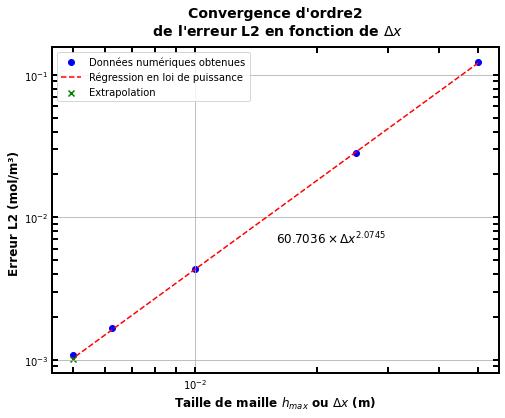
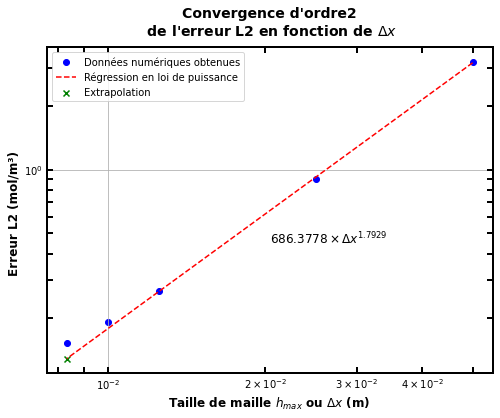
MMS
Modifications finales MMS ?

diff --git a/devoir2/src/MMS.py b/devoir2/src/MMS.py
@@ -22,27 +22,210 @@ import matplotlib.pyplot as plt
 
 # Numerical parameters
 
+
+#Etude de la convergence en espace 
+
 Order = 2
 
 print('runing solver...')
 print(' order=', Order)
 print('')
 
-n=20
-tMax = 0.1
+h=[]
+El2=[]
+n_cases = [10,20,40,50,60]
+for n in n_cases:
+    tMax = 1e15#0.1
+    dt = tMax/200
+    Order = 2
+    dx=0.5/n
+    h.append(dx)
+    r,c_num = mycode.solve(n, dt, Order, tMax, MMS = True, debug=False)
+    c_man = mycode.manufactured_solution(r, tMax)
+    error_l2 = np.sqrt(np.sum((c_num - c_man)**2)/len(c_num))
+    El2.append(error_l2)
+    print("n :",n)
+    print("L2", error_l2)
+    plt.figure(figsize=(10, 6))
+    plt.plot(r, c_num, label='Solution Numérique', marker='o')
+    plt.plot(r, c_man, label='Solution Manufacturée', linestyle='--')
+    plt.xlabel('Position (r)')
+    plt.ylabel('Concentration (C)')
+    plt.title('Comparaison entre la solution numérique et manufacturée')
+    plt.legend()
+    plt.show()
 
-dt = tMax/2000
 
+def plot_convergence(error_values, h_values_ext, Order, error_name = 'L2') :
+    """
+    Plots the convergence of the error with respect to the grid size.
 
+    Args:
+        error_values (list): List of error values.
+        h_values_ext (list): List of grid sizes.
+        order (int): The order of the convergence (1 or 2).
+        error_name (string): name of the error (L1, L2, Linf)
 
+    Returns:
+        None
+    """
 
+    coefficients = np.polyfit(np.log(h_values_ext[:3]), np.log(error_values[:3]), 1)
+    exponent = coefficients[0]
+
+    #fit_function_log = lambda x: exponent * x + coefficients[1]
+
+    #fit_function = lambda x: np.exp(fit_function_log(np.log(x)))
+
+    def fit_function_log(x):
+        return exponent * x + coefficients[1]
+
+    def fit_function(x):
+        return np.exp(fit_function_log(np.log(x)))
+
+    extrapolated_value = fit_function(h_values_ext[-1])
+
+    plt.figure(figsize=(8, 6))
+    plt.scatter(h_values_ext, error_values, marker='o',
+                color='b', label='Données numériques obtenues')
+    plt.plot(h_values_ext, fit_function(h_values_ext), linestyle='--',
+              color='r', label='Régression en loi de puissance')
+
+    plt.scatter(h_values_ext[-1], extrapolated_value, marker='x', color='g', label='Extrapolation')
+
+    plt.title('Convergence d\'ordre' + Order +
+              '\n de l\'erreur '+error_name+' en fonction de $Δx$',
+          fontsize=14, fontweight='bold', y=1.02)
+    # Le paramètre y règle la position verticale du titre
+
+    plt.xlabel('Taille de maille $h_{max}$ ou $Δx$ (m)',
+                fontsize=12, fontweight='bold')  # Remplacer "h" par "Δx"
+    plt.ylabel('Erreur '+error_name+' (mol/m³) ', fontsize=12, fontweight='bold')
+
+    plt.gca().spines['bottom'].set_linewidth(2)
+    plt.gca().spines['left'].set_linewidth(2)
+    plt.gca().spines['right'].set_linewidth(2)
+    plt.gca().spines['top'].set_linewidth(2)
+    plt.tick_params(width=2, which='both', direction='in', top=True, right=True, length=6)
+
+    #equation_text = f'$L_2 = {np.exp(coefficients[1]):.4f} \\times Δx^{{{exponent:.4f}}}$'
+    equation_text = f'$ {np.exp(coefficients[1]):.4f} \\times Δx^{{{exponent:.4f}}}$'
+    equation_text_obj = plt.text(0.05, 0.05, equation_text, fontsize=12,
+                                  transform=plt.gca().transAxes, color='k')
+
+    equation_text_obj.set_position((0.5, 0.4))
+
+    plt.xscale('log')
+    plt.yscale('log')
+    plt.grid(True)
+    plt.legend()
+    plt.show()
+
+plot_convergence(El2, h, "2", error_name='L2')
+
+n=100
 
 print('time t=', tMax)
-r,c = mycode.solve(n, dt, Order, tMax, MMS = True, debug=False)
-c_an = mycode.manufactured_solution(r, tMax)
-plt.plot(r, c, label='numeric')
-plt.plot(r, c_an, label='analytical')
+r,c_num = mycode.solve(n, dt, Order, tMax, MMS = True, debug=False)
+c_man = mycode.manufactured_solution(r, tMax)
+error_l2 = np.sqrt(np.sum((c_num - c_man)**2)/len(c_num))
+print("error_L2 :", error_l2)
+plt.plot(r, c_num, label='numeric')
+plt.plot(r, c_man, label='analytical')
 plt.legend()
 plt.show()
 
+
+
+#Etude de la connvergence en temps  
+
+
+
+def plot_convergence_t(error_values, delta_t, Order, error_name = 'L2') :
+    """
+    Plots the convergence of the error with respect to the grid size.
+
+    Args:
+        error_values (list): List of error values.
+        h_values_ext (list): List of grid sizes.
+        order (int): The order of the convergence (1 or 2).
+        error_name (string): name of the error (L1, L2, Linf)
+
+    Returns:
+        None
+    """
+
+    coefficients = np.polyfit(np.log(delta_t[:3]), np.log(error_values[:3]), 1)
+    exponent = coefficients[0]
+
+
+    def fit_function_log(x):
+        return exponent * x + coefficients[1]
+
+    def fit_function(x):
+        return np.exp(fit_function_log(np.log(x)))
+
+    extrapolated_value = fit_function(delta_t[-1])
+
+    plt.figure(figsize=(8, 6))
+    plt.scatter(delta_t, error_values, marker='o',
+                color='b', label='Données numériques obtenues')
+    plt.plot(delta_t, fit_function(delta_t), linestyle='--',
+              color='r', label='Régression en loi de puissance')
+
+    plt.scatter(delta_t[-1], extrapolated_value, marker='x', color='g', label='Extrapolation')
+
+    plt.title('Convergence d\'ordre' + Order +
+              '\n de l\'erreur '+error_name+' en fonction de $Δt$',
+          fontsize=14, fontweight='bold', y=1.02)
+    # Le paramètre y règle la position verticale du titre
+
+    plt.xlabel('Taille de maille $h_{max}$ ou $Δx$ (m)',
+                fontsize=12, fontweight='bold')  # Remplacer "h" par "Δx"
+    plt.ylabel('Erreur '+error_name+' (mol/m³) ', fontsize=12, fontweight='bold')
+
+    plt.gca().spines['bottom'].set_linewidth(2)
+    plt.gca().spines['left'].set_linewidth(2)
+    plt.gca().spines['right'].set_linewidth(2)
+    plt.gca().spines['top'].set_linewidth(2)
+    plt.tick_params(width=2, which='both', direction='in', top=True, right=True, length=6)
+
+    #equation_text = f'$L_2 = {np.exp(coefficients[1]):.4f} \\times Δx^{{{exponent:.4f}}}$'
+    equation_text = f'$ {np.exp(coefficients[1]):.1e} \\times \\Delta x^{{{exponent:.4f}}}$'
+    equation_text_obj = plt.text(0.05, 0.05, equation_text, fontsize=12,
+                                 transform=plt.gca().transAxes, color='k')
+
+    equation_text_obj.set_position((0.5, 0.4))
+
+    plt.xscale('log')
+    plt.yscale('log')
+    plt.grid(True)
+    plt.legend()
+    plt.show()
+    
+El2=[]
+time_l = [50,75,85,100,200]   #nombre d'itérations
+time = []
+for t in time_l:
+    n=100
+    tMax = 1e15 #0.1
+    dt = tMax/t
+    Order = 2
+    time.append(dt)
+    r,c_num = mycode.solve(n, dt, Order, tMax, MMS = True, debug=False)
+    c_man = mycode.manufactured_solution(r, tMax)
+    error_l2 = np.sqrt(np.sum((c_num - c_man)**2)/len(c_num))
+    El2.append(error_l2)
+    print("n :",n)
+    print("L2", error_l2)
+    plt.figure(figsize=(10, 6))
+    plt.plot(r, c_num, label='Solution Numérique', marker='o')
+    plt.plot(r, c_man, label='Solution Manufacturée', linestyle='--')
+    plt.xlabel('Position (r)')
+    plt.ylabel('Concentration (C)')
+    plt.title('Comparaison entre la solution numérique et manufacturée')
+    plt.legend()
+    plt.show()
+
+plot_convergence_t(El2,time,"2", error_name='L2')
 

diff --git a/devoir2/src/solve_FICK_sourceTerm.py b/devoir2/src/solve_FICK_sourceTerm.py
@@ -10,20 +10,46 @@ import numpy as np
 from numpy import linalg as LA
 import matplotlib.pyplot as plt
 
+# def manufactured_solution(r, t):
+#     Cs = 12.0
+#     R = 0.5
+#     return (Cs*np.sin(np.pi*r**2/(2*R**2)) + r**2*(-R + r)/(t + 1))
+
+# def source_term(r, t):
+#     Cs = 12.0
+#     R = 0.5
+#     De = 10e-10
+#     k = 4e-9
+#     r = np.maximum(r, 1e-25)
+#     t = np.maximum(t, 1e-25)
+#     kc = k*(Cs*np.sin(np.pi*r**2/(2*R**2)) + r**2*(-R + r)/(t + 1))
+#     expression = -De*(np.pi*Cs*np.cos(np.pi*r**2/(2*R**2))/R**2 - np.pi**2*Cs*r**2*np.sin(np.pi*r**2/(2*R**2))/R**4 + 4*r/(t + 1) - 2*(R - r)/(t + 1)) - De*(np.pi*Cs*r*np.cos(np.pi*r**2/(2*R**2))/R**2 + r**2/(t + 1) + 2*r*(-R + r)/(t + 1))/r - r**2*(-R + r)/(t + 1)**2
+#     return (expression + kc)
+
 def manufactured_solution(r, t):
     Cs = 12.0
     R = 0.5
-    return (Cs*np.sin(np.pi*r**2/(2*R**2)) + r**2*(-R + r)/(t + 1))
-
+    return (Cs*np.sin(np.pi*r**2/(2*R**2)) - r**2*t**0.25*(-R + r))
 def source_term(r, t):
     Cs = 12.0
     R = 0.5
     De = 10e-10
     k = 4e-9
-    kc = k*(Cs*np.sin(np.pi*r**2/(2*R**2)) + r**2*(-R + r)/(t + 1))
-    expression = -De*(np.pi*Cs*np.cos(np.pi*r**2/(2*R**2))/R**2 - np.pi**2*Cs*r**2*np.sin(np.pi*r**2/(2*R**2))/R**4 + 4*r/(t + 1) - 2*(R - r)/(t + 1)) - De*(np.pi*Cs*r*np.cos(np.pi*r/(2*R**2))/R**2 + r/(t + 1) + 2*(-R + r)/(t + 1)) - r**2*(-R + r)/(t + 1)**2
-    return (expression + kc)
+    r = np.maximum(r, 1e-25)
+    t = np.maximum(t, 1e-25)
+    kc = k*(Cs*np.sin(np.pi*r**2/(2*R**2)) - r**2*t**0.25*(-R + r))
+    expression = -De*(np.pi*Cs*np.cos(np.pi*r**2/(2*R**2))/R**2 - np.pi**2*Cs*r**2*np.sin(np.pi*r**2/(2*R**2))/R**4 - 4*r*t**0.25 + 2*t**0.25*(R - r)) - De*(np.pi*Cs*r*np.cos(np.pi*r**2/(2*R**2))/R**2 - r**2*t**0.25 - 2*r*t**0.25*(-R + r))/r - 0.25*r**2*(-R + r)/t**0.75
+    return expression +kc 
 
+# def source_term(r, t):
+#     Cs = 12.0
+#     R = 0.5
+#     De = 10e-10
+#     k = 4e-9
+#     # r = np.maximum(r, 1e-25)
+#     # t = np.maximum(t, 1e-25)
+#     kc = k*(Cs*np.sin(np.pi*r**2/(2*R**2)) + r**2*t**0.25*(-R + r))
+#     return -De*(np.pi*Cs*np.cos(np.pi*r**2/(2*R**2))/R**2 - np.pi**2*Cs*r**2*np.sin(np.pi*r**2/(2*R**2))/R**4 + 4*r*t**0.25 - 2*t**0.25*(R - r)) - De*(np.pi*Cs*r*np.cos(np.pi*r**2/(2*R**2))/R**2 + r**2*t**0.25 + 2*r*t**0.25*(-R + r))/r + 0.25*r**2*(-R + r)/t**0.75 + kc
 
 def solve(n, dt, order, tmax,  MMS = True, debug=False):
     '''
@@ -112,14 +138,15 @@ def solve(n, dt, order, tmax,  MMS = True, debug=False):
 
         c_pre = c.copy()
 
-        if MMS: 
-            s_current = source_term(r, t) #Ici nous calculons le terme source pour r et le time spécifié
-            c = c - k*c*dt + s_current*dt
+        if MMS:
+            s_current = source_term(r, t)
+            c = c - k*c*dt + s_current*dt        #Ici nous calculons le terme source pour r et le time spécifié
         else: c = c - k*c*dt 
 
-        c[0]=0.; c[-1]=12
-
+        c[0]=0.;c[-1]=12 
         c = np.matmul(matrix_inv, c)
+        
+        #c = LA.solve(matrix, c)
 
         res = LA.norm(c - c_pre)
 

diff --git a/devoir2/src/Devoir2MMS.py b/devoir2/src/Devoir2MMS.py
@@ -121,7 +121,7 @@ def solve_MMS(n, dt, order, imax, tol, time, debug=False):
     if (i % 1000 == 0) and debug:
         print(i, res)
 
-    i += 1
+        i += 1
 
     if i == imax:
         print('    ***********')
@@ -307,7 +307,7 @@ def plot_convergence_t(error_values, delta_t, Order, error_name = 'L2') :
     plt.show()
     
 El2=[]
-dt_cases = [1e3,1e4,1e5,1e6,1e7]
+dt_cases = [1e4,1e5,1e6,1e7]
 for dt in dt_cases:
     tol = 1e-15
     imax = 1e7

diff --git a/devoir2/src/checkAnalyticalSolution.py b/devoir2/src/checkAnalyticalSolution.py
@@ -3,7 +3,7 @@ import solve_FICK_sourceTerm as mycode
 import matplotlib.pyplot as plt
 
 n = 20
-tFinal = 20
+tFinal = 15
 for t in np.linspace(0,tFinal,n+1):
     # Geometry
     r0 = 0
